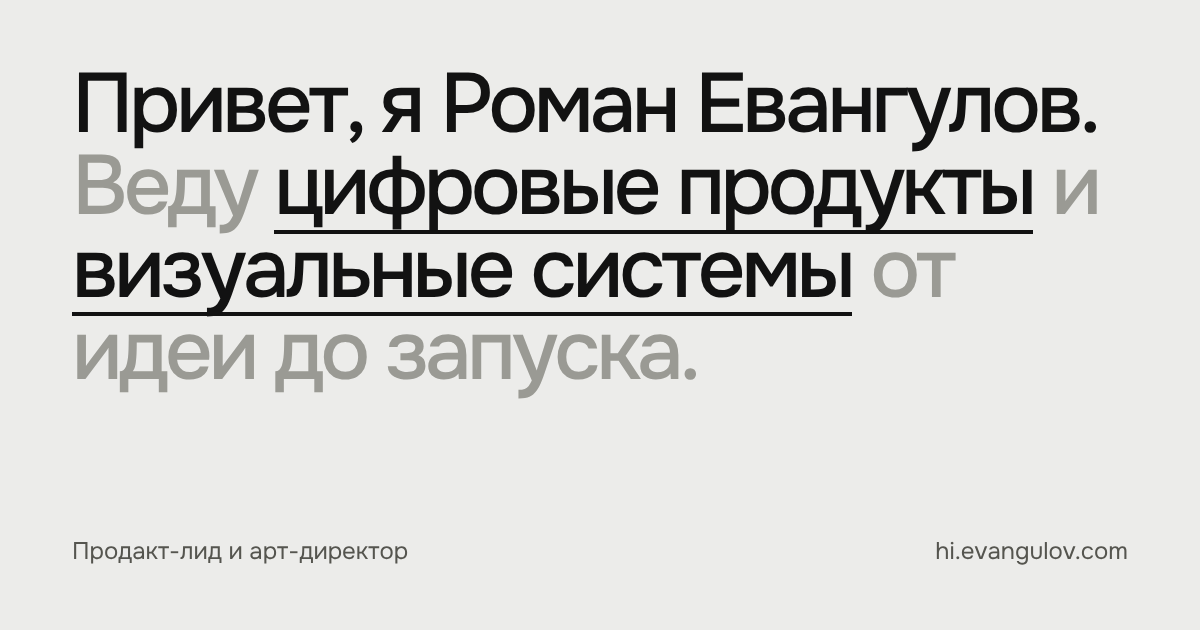
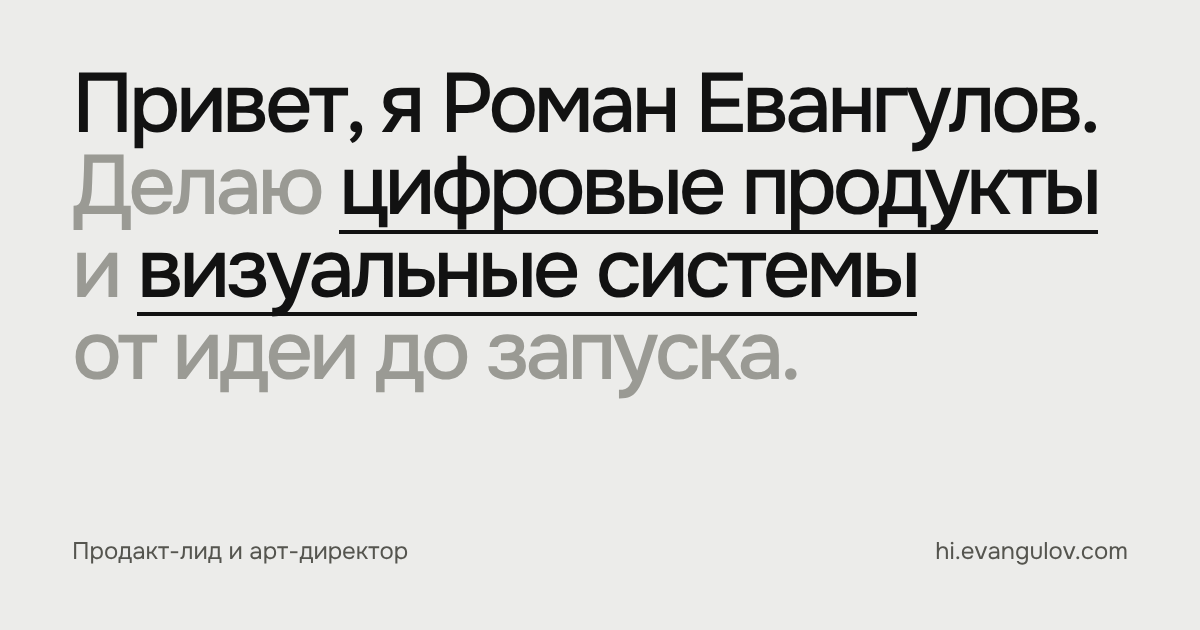
Главная: «Делаю» вместо «Веду»
Claude-Session: https://claude.ai/code/session_01MPVUZezH11G1zi8C6TZf3s

Changed region(s): [[0.0617, 0.2413, 0.925, 0.6333]]

diff --git a/index.html b/index.html
@@ -1,4 +1,4 @@
-<!doctype html><html lang="ru"><head><meta charset="utf-8"><meta name="viewport" content="width=device-width, initial-scale=1"><title>Роман Евангулов — продакт-лид и арт-директор</title><meta name="description" content="Веду цифровые продукты и визуальные системы от идеи до запуска. Кейсы: Settle, «Обещали.», Kairos Digital, Экоплант и другие."><link rel="canonical" href="https://hi.evangulov.com/"><meta property="og:type" content="website"><meta property="og:url" content="https://hi.evangulov.com/"><meta property="og:title" content="Роман Евангулов — продакт-лид и арт-директор"><meta property="og:description" content="Веду цифровые продукты и визуальные системы от идеи до запуска. Кейсы: Settle, «Обещали.», Kairos Digital, Экоплант и другие."><meta property="og:image" content="https://hi.evangulov.com/og.png"><meta name="twitter:card" content="summary_large_image"><meta name="robots" content="noindex, nofollow"><meta name="theme-color" content="#ECECEA"><link rel="icon" href="/favicon.svg" type="image/svg+xml"><link rel="preconnect" href="https://fonts.googleapis.com"><link rel="preconnect" href="https://fonts.gstatic.com" crossorigin><link rel="stylesheet" href="https://fonts.googleapis.com/css2?family=Onest:wght@300..700&amp;display=swap"><style>html,body{margin:0;background:#ECECEA}</style>
+<!doctype html><html lang="ru"><head><meta charset="utf-8"><meta name="viewport" content="width=device-width, initial-scale=1"><title>Роман Евангулов — продакт-лид и арт-директор</title><meta name="description" content="Делаю цифровые продукты и визуальные системы от идеи до запуска. Кейсы: Settle, «Обещали.», Экоплант и другие."><link rel="canonical" href="https://hi.evangulov.com/"><meta property="og:type" content="website"><meta property="og:url" content="https://hi.evangulov.com/"><meta property="og:title" content="Роман Евангулов — продакт-лид и арт-директор"><meta property="og:description" content="Делаю цифровые продукты и визуальные системы от идеи до запуска. Кейсы: Settle, «Обещали.», Экоплант и другие."><meta property="og:image" content="https://hi.evangulov.com/og.png"><meta name="twitter:card" content="summary_large_image"><meta name="robots" content="noindex, nofollow"><meta name="theme-color" content="#ECECEA"><link rel="icon" href="/favicon.svg" type="image/svg+xml"><link rel="preconnect" href="https://fonts.googleapis.com"><link rel="preconnect" href="https://fonts.gstatic.com" crossorigin><link rel="stylesheet" href="https://fonts.googleapis.com/css2?family=Onest:wght@300..700&amp;display=swap"><style>html,body{margin:0;background:#ECECEA}</style>
 
 
 
@@ -483,7 +483,7 @@ class Component extends DCLogic {
   }
   renderVals(){ return {}; }
 }
-; return Component })(),tpl:"\n\n<div class=\"s5\"><header class=\"hd5\"><div class=\"wrap\"><a class=\"nm\" href=\"#top\">Роман Евангулов</a><nav aria-label=\"Разделы\"><a class=\"ul x\" href=\"#work\">Работы</a><a class=\"ul\" href=\"/about/\">Обо мне</a><a class=\"ul\" href=\"#contact\">Связаться</a></nav></div></header><main><section id=\"top\" class=\"wrap hz\"><h1 aria-label=\"Привет, я Роман Евангулов. Веду цифровые продукты и визуальные системы от идеи до запуска.\"><span class=\"wd\"><span style=\"--i: 0\">Привет,</span></span> <span class=\"nw\"><span class=\"wd\"><span style=\"--i: 1\">я</span></span> <a href=\"/about/\" class=\"me\" aria-haspopup=\"dialog\" style=\"--d: 565ms\"><span class=\"wd\"><span style=\"--i: 2\">Роман</span></span></a></span> <span class=\"nw\"><a href=\"/about/\" class=\"me\" aria-haspopup=\"dialog\" style=\"--d: 565ms\"><span class=\"wd\"><span style=\"--i: 3\">Евангулов</span></span></a><span class=\"wd\"><span style=\"--i: 4\">.</span></span></span> <span class=\"wd g\"><span style=\"--i: 4\">Веду</span></span> <a href=\"#products\" style=\"--d: 785ms\"><span class=\"wd\"><span style=\"--i: 5\">цифровые</span></span> <span class=\"wd\"><span style=\"--i: 6\">продукты</span></span></a> <span class=\"nw\"><span class=\"wd g\"><span style=\"--i: 7\">и</span></span> <a href=\"#brands\" style=\"--d: 950ms\"><span class=\"wd\"><span style=\"--i: 8\">визуальные</span></span></a></span><a href=\"#brands\" class=\"l2b\" style=\"--d: 950ms\"> <span class=\"wd\"><span style=\"--i: 9\">системы</span></span></a> <span class=\"nw\"><span class=\"wd g\"><span style=\"--i: 10\">от</span></span> <span class=\"wd g\"><span style=\"--i: 11\">идеи</span></span></span> <span class=\"nw\"><span class=\"wd g\"><span style=\"--i: 12\">до</span></span> <span class=\"wd g\"><span style=\"--i: 13\">запуска.</span></span></span></h1></section><section id=\"work\" class=\"wrap\" style=\"display: flex; flex-direction: column; gap: 140px; padding-bottom: 140px\"><div id=\"products\" class=\"grp\"><div class=\"grp-h\"><h2>Продуктовые кейсы</h2><span></span></div><a class=\"card op\" href=\"/settle/\" aria-label=\"Settle: открыть кейс\"><div class=\"media\"><div class=\"kc w\" style=\"aspect-ratio: 16 / 9; --bg: #0A1028; --fg: #F2F5FF; --mut: rgba(242,245,255,.55); --g1: #2F55E4; --g2: #7C93FF; --g3: #22D4ED; --go: 0.5; --ln: rgba(242,245,255,.14)\"><div class=\"orb\"></div><div class=\"kl\">Собственный продукт · macOS · 2026</div><div class=\"bt\"><div class=\"nm\">Settle</div><div class=\"ds\">Хватит ли Wi‑Fi для работы — ответ одним словом</div></div></div></div><div class=\"cap\"><span class=\"go2\"><span class=\"t\">Открыть кейс</span><span class=\"a\">→</span></span><span class=\"res\">Приложение для Mac</span></div></a><a class=\"card op\" href=\"/obeschali/\" aria-label=\"Обещали.: открыть кейс\"><div class=\"media\"><div class=\"kc w\" style=\"aspect-ratio: 16 / 9; --bg: #121212; --fg: #F2EEE4; --mut: rgba(242,238,228,.5); --g1: #C9B98F; --g2: #8A7B5A; --g3: #E8DFC8; --go: 0.32; --ln: rgba(242,238,228,.14)\"><div class=\"orb\"></div><div class=\"kl\">Собственный продукт · 2026</div><div class=\"bt\"><div class=\"nm\">Обещали.</div><div class=\"ds\">Архив публичных обещаний и того, что произошло дальше</div></div></div></div><div class=\"cap\"><span class=\"go2\"><span class=\"t\">Открыть кейс</span><span class=\"a\">→</span></span><span class=\"res\">Сайт на русском и английском</span></div></a><div class=\"row2\"><a class=\"card cl\" href=\"/miklatnow/\" aria-label=\"MiklatNow: кейс скоро\"><div class=\"media\"><div class=\"kc\" style=\"aspect-ratio: 4 / 5; --bg: #E2E2DE; --fg: #1E1C18; --mut: rgba(30,28,24,.55); --g1: #F2B880; --g2: #8AA8FF; --g3: #F7D9A8; --go: 0.55; --ln: rgba(30,28,24,.16)\"><div class=\"orb\"></div><div class=\"kl\">Собственный продукт · 2026</div><div class=\"bt\"><div class=\"nm\">MiklatNow</div><div class=\"ds\">Ближайшее укрытие в одно нажатие</div></div></div></div><div class=\"cap\"><span class=\"go2\"><svg width=\"14\" height=\"14\" viewBox=\"0 0 24 24\" fill=\"none\" stroke=\"currentColor\" stroke-width=\"1.8\" aria-hidden=\"true\"><rect x=\"5\" y=\"11\" width=\"14\" height=\"9\"></rect><path d=\"M8 11V8a4 4 0 0 1 8 0v3\"></path></svg> Кейс скоро</span><span class=\"res\">Сервис работает: miklatnow.com</span></div></a><a class=\"card cl\" href=\"/ecoplant-shop/\" aria-label=\"Интернет-магазин Экоплант: кейс скоро\"><div class=\"media\"><div class=\"kc\" style=\"aspect-ratio: 4 / 5; --bg: #E3EADF; --fg: #132A17; --mut: rgba(19,42,23,.55); --g1: #9BD86A; --g2: #E2F7A8; --g3: #5DBB6B; --go: 0.6; --ln: rgba(19,42,23,.16); --fs: 10.6cqw\"><div class=\"orb\"></div><div class=\"kl\">Экоплант · 2025</div><div class=\"bt\"><div class=\"nm\">Интернет-магазин Экоплант</div><div class=\"ds\">Онлайн как отдельный канал продаж</div></div></div></div><div class=\"cap\"><span class=\"go2\"><svg width=\"14\" height=\"14\" viewBox=\"0 0 24 24\" fill=\"none\" stroke=\"currentColor\" stroke-width=\"1.8\" aria-hidden=\"true\"><rect x=\"5\" y=\"11\" width=\"14\" height=\"9\"></rect><path d=\"M8 11V8a4 4 0 0 1 8 0v3\"></path></svg> Кейс скоро</span><span class=\"res\">Интернет-магазин Экоплант</span></div></a></div></div><div id=\"brands\" class=\"grp\"><div class=\"grp-h\"><h2>Дизайн-кейсы</h2><span></span></div><a class=\"card op\" href=\"/ecoplant-social/\" aria-label=\"Соцсети Экоплант: открыть кейс\"><div class=\"media\"><div class=\"kc w\" style=\"aspect-ratio: 16 / 9; --bg: #DDF2B6; --fg: #0E3A1B; --mut: rgba(14,58,27,.6); --g1: #FFFFFF; --g2: #9BE35A; --g3: #4FB35E; --go: 0.6; --ln: rgba(14,58,27,.18); --fs: 10.6cqw\"><div class=\"orb\"></div><div class=\"kl\">Экоплант · 2025</div><div class=\"bt\"><div class=\"nm\">Соцсети Экоплант</div><div class=\"ds\">Визуальный язык, рубрики и шаблоны для ленты бренда</div></div></div></div><div class=\"cap\"><span class=\"go2\"><span class=\"t\">Открыть кейс</span><span class=\"a\">→</span></span><span class=\"res\">Рубрики, карусели и шаблоны для соцсетей</span></div></a><div class=\"row2\"><a class=\"card cl\" href=\"/kairos/\" aria-label=\"Kairos Digital: кейс скоро\"><div class=\"media\"><div class=\"kc\" style=\"aspect-ratio: 4 / 5; --bg: #060A1C; --fg: #FFFFFF; --mut: rgba(255,255,255,.55); --g1: #385CFF; --g2: #7D5CFF; --g3: #22D4ED; --go: 0.55; --ln: rgba(255,255,255,.14); --fs: 10.6cqw\"><div class=\"orb\"></div><div class=\"kl\">Kairos Digital · 2022–2024</div><div class=\"bt\"><div class=\"nm\">Kairos Digital</div><div class=\"ds\">Три продукта на одном сайте</div></div></div></div><div class=\"cap\"><span class=\"go2\"><svg width=\"14\" height=\"14\" viewBox=\"0 0 24 24\" fill=\"none\" stroke=\"currentColor\" stroke-width=\"1.8\" aria-hidden=\"true\"><rect x=\"5\" y=\"11\" width=\"14\" height=\"9\"></rect><path d=\"M8 11V8a4 4 0 0 1 8 0v3\"></path></svg> Кейс скоро</span><span class=\"res\">Сайт группы и лендинги продуктов</span></div></a><a class=\"card op\" href=\"/ecoplant-brand/\" aria-label=\"Бренд Экоплант: открыть кейс\"><div class=\"media\"><div class=\"kc\" style=\"aspect-ratio: 4 / 5; --bg: #0E3A1B; --fg: #EEF6E6; --mut: rgba(238,246,230,.55); --g1: #6FCF4B; --g2: #C8F06A; --g3: #2E8B57; --go: 0.5; --ln: rgba(238,246,230,.16); --fs: 10.6cqw\"><div class=\"orb\"></div><div class=\"kl\">Экоплант · 2024–2025</div><div class=\"bt\"><div class=\"nm\">Бренд Экоплант</div><div class=\"ds\">Один стиль для рекламы, магазинов и онлайна</div></div></div></div><div class=\"cap\"><span class=\"go2\"><span class=\"t\">Открыть кейс</span><span class=\"a\">→</span></span><span class=\"res\">Брендбук и наружная реклама</span></div></a></div><div class=\"row2\"><a class=\"card op\" href=\"/speedpipe/\" aria-label=\"SpeedPipe: открыть кейс\"><div class=\"media\"><div class=\"kc\" style=\"aspect-ratio: 4 / 5; --bg: #0F0F12; --fg: #F2F2F5; --mut: rgba(242,242,245,.5); --g1: #B9BDCF; --g2: #6C7186; --g3: #E9EAF2; --go: 0.32; --ln: rgba(242,242,245,.14)\"><div class=\"orb\"></div><div class=\"kl\">Kairos Digital · 2022–2024</div><div class=\"bt\"><div class=\"nm\">SpeedPipe</div><div class=\"ds\">Один мастер-бренд вместо разрозненных продуктов</div></div></div></div><div class=\"cap\"><span class=\"go2\"><span class=\"t\">Открыть кейс</span><span class=\"a\">→</span></span><span class=\"res\">Мастер-бренд и линейка продуктов</span></div></a><a class=\"card op\" href=\"/gsp-film/\" aria-label=\"Стройка изнутри: открыть кейс\"><div class=\"media\"><div class=\"kc\" style=\"aspect-ratio: 4 / 5; --bg: #1B120C; --fg: #FFF3E8; --mut: rgba(255,243,232,.55); --g1: #E0823A; --g2: #F4C46B; --g3: #B3502A; --go: 0.55; --ln: rgba(255,243,232,.14); --fs: 10.6cqw\"><div class=\"orb\"></div><div class=\"kl\">Газстройпром · 2016–2021</div><div class=\"bt\"><div class=\"nm\">Стройка изнутри</div><div class=\"ds\">Ночные смены, зимние трассы и ролик «Ухта — Торжок»</div></div></div></div><div class=\"cap\"><span class=\"go2\"><span class=\"t\">Открыть кейс</span><span class=\"a\">→</span></span><span class=\"res\">Снимал сам на камеру и коптер</span></div></a></div></div></section><section class=\"wrap ab5\"><a href=\"/about/\"><span>Обо мне</span><span class=\"a\">→</span></a></section></main><footer id=\"contact\" class=\"ft5\"><div class=\"wrap\"><div class=\"lb\">Контакты</div><a class=\"em\" href=\"mailto:evangulov@gmail.com\">evangulov@gmail.com</a><div class=\"ln\"><a href=\"https://t.me/evangulov\" target=\"_blank\" rel=\"noopener\">Telegram <svg width=\".7em\" height=\".7em\" viewBox=\"0 0 24 24\" fill=\"none\" stroke=\"currentColor\" stroke-width=\"1.6\" aria-hidden=\"true\"><path d=\"M7 17 17 7M8 7h9v9\"></path></svg></a><a href=\"https://linkedin.com/in/evangulov\" target=\"_blank\" rel=\"noopener\">LinkedIn <svg width=\".7em\" height=\".7em\" viewBox=\"0 0 24 24\" fill=\"none\" stroke=\"currentColor\" stroke-width=\"1.6\" aria-hidden=\"true\"><path d=\"M7 17 17 7M8 7h9v9\"></path></svg></a></div><div class=\"bt\"><span>© Роман Евангулов, 2026</span><span>Продакт-лид и арт-директор</span></div></div></footer><div class=\"mm\" id=\"me\" role=\"dialog\" aria-modal=\"true\" aria-labelledby=\"mmT\" aria-hidden=\"true\"><div class=\"mm-bg\" data-close=\"1\"></div><div class=\"mm-card\"><button type=\"button\" class=\"mm-x\" data-close=\"1\" aria-label=\"Закрыть\"><svg viewBox=\"0 0 16 16\" width=\"16\" height=\"16\" fill=\"none\" stroke=\"currentColor\" stroke-width=\"1.6\"><path d=\"M3 3l10 10M13 3L3 13\"/></svg></button><div class=\"mm-i mm-k\">Продакт-лид и арт-директор</div><h2 class=\"mm-i\" id=\"mmT\">Роман Евангулов</h2><p class=\"mm-i mm-p\">Больше десяти лет работаю в крупных компаниях и IT‑стартапах. Собираю команды под задачу и вместе с дизайнерами и разработчиками довожу продукты и визуальные системы до запуска.</p><div class=\"mm-i mm-ln\"><a class=\"mm-go\" href=\"/about/\"><span>Подробнее обо мне</span><span class=\"a\">→</span></a><div class=\"mm-ct\"><a href=\"mailto:evangulov@gmail.com\">evangulov@gmail.com</a><a href=\"https://t.me/evangulov\" target=\"_blank\" rel=\"noopener\">Telegram ↗</a><a href=\"https://linkedin.com/in/evangulov\" target=\"_blank\" rel=\"noopener\">LinkedIn ↗</a></div></div></div></div></div>\n",props:{}};
+; return Component })(),tpl:"\n\n<div class=\"s5\"><header class=\"hd5\"><div class=\"wrap\"><a class=\"nm\" href=\"#top\">Роман Евангулов</a><nav aria-label=\"Разделы\"><a class=\"ul x\" href=\"#work\">Работы</a><a class=\"ul\" href=\"/about/\">Обо мне</a><a class=\"ul\" href=\"#contact\">Связаться</a></nav></div></header><main><section id=\"top\" class=\"wrap hz\"><h1 aria-label=\"Привет, я Роман Евангулов. Делаю цифровые продукты и визуальные системы от идеи до запуска.\"><span class=\"wd\"><span style=\"--i: 0\">Привет,</span></span> <span class=\"nw\"><span class=\"wd\"><span style=\"--i: 1\">я</span></span> <a href=\"/about/\" class=\"me\" aria-haspopup=\"dialog\" style=\"--d: 565ms\"><span class=\"wd\"><span style=\"--i: 2\">Роман</span></span></a></span> <span class=\"nw\"><a href=\"/about/\" class=\"me\" aria-haspopup=\"dialog\" style=\"--d: 565ms\"><span class=\"wd\"><span style=\"--i: 3\">Евангулов</span></span></a><span class=\"wd\"><span style=\"--i: 4\">.</span></span></span> <span class=\"wd g\"><span style=\"--i: 4\">Делаю</span></span> <a href=\"#products\" style=\"--d: 785ms\"><span class=\"wd\"><span style=\"--i: 5\">цифровые</span></span> <span class=\"wd\"><span style=\"--i: 6\">продукты</span></span></a> <span class=\"nw\"><span class=\"wd g\"><span style=\"--i: 7\">и</span></span> <a href=\"#brands\" style=\"--d: 950ms\"><span class=\"wd\"><span style=\"--i: 8\">визуальные</span></span></a></span><a href=\"#brands\" class=\"l2b\" style=\"--d: 950ms\"> <span class=\"wd\"><span style=\"--i: 9\">системы</span></span></a> <span class=\"nw\"><span class=\"wd g\"><span style=\"--i: 10\">от</span></span> <span class=\"wd g\"><span style=\"--i: 11\">идеи</span></span></span> <span class=\"nw\"><span class=\"wd g\"><span style=\"--i: 12\">до</span></span> <span class=\"wd g\"><span style=\"--i: 13\">запуска.</span></span></span></h1></section><section id=\"work\" class=\"wrap\" style=\"display: flex; flex-direction: column; gap: 140px; padding-bottom: 140px\"><div id=\"products\" class=\"grp\"><div class=\"grp-h\"><h2>Продуктовые кейсы</h2><span></span></div><a class=\"card op\" href=\"/settle/\" aria-label=\"Settle: открыть кейс\"><div class=\"media\"><div class=\"kc w\" style=\"aspect-ratio: 16 / 9; --bg: #0A1028; --fg: #F2F5FF; --mut: rgba(242,245,255,.55); --g1: #2F55E4; --g2: #7C93FF; --g3: #22D4ED; --go: 0.5; --ln: rgba(242,245,255,.14)\"><div class=\"orb\"></div><div class=\"kl\">Собственный продукт · macOS · 2026</div><div class=\"bt\"><div class=\"nm\">Settle</div><div class=\"ds\">Хватит ли Wi‑Fi для работы — ответ одним словом</div></div></div></div><div class=\"cap\"><span class=\"go2\"><span class=\"t\">Открыть кейс</span><span class=\"a\">→</span></span><span class=\"res\">Приложение для Mac</span></div></a><a class=\"card op\" href=\"/obeschali/\" aria-label=\"Обещали.: открыть кейс\"><div class=\"media\"><div class=\"kc w\" style=\"aspect-ratio: 16 / 9; --bg: #121212; --fg: #F2EEE4; --mut: rgba(242,238,228,.5); --g1: #C9B98F; --g2: #8A7B5A; --g3: #E8DFC8; --go: 0.32; --ln: rgba(242,238,228,.14)\"><div class=\"orb\"></div><div class=\"kl\">Собственный продукт · 2026</div><div class=\"bt\"><div class=\"nm\">Обещали.</div><div class=\"ds\">Архив публичных обещаний и того, что произошло дальше</div></div></div></div><div class=\"cap\"><span class=\"go2\"><span class=\"t\">Открыть кейс</span><span class=\"a\">→</span></span><span class=\"res\">Сайт на русском и английском</span></div></a><div class=\"row2\"><a class=\"card cl\" href=\"/miklatnow/\" aria-label=\"MiklatNow: кейс скоро\"><div class=\"media\"><div class=\"kc\" style=\"aspect-ratio: 4 / 5; --bg: #E2E2DE; --fg: #1E1C18; --mut: rgba(30,28,24,.55); --g1: #F2B880; --g2: #8AA8FF; --g3: #F7D9A8; --go: 0.55; --ln: rgba(30,28,24,.16)\"><div class=\"orb\"></div><div class=\"kl\">Собственный продукт · 2026</div><div class=\"bt\"><div class=\"nm\">MiklatNow</div><div class=\"ds\">Ближайшее укрытие в одно нажатие</div></div></div></div><div class=\"cap\"><span class=\"go2\"><svg width=\"14\" height=\"14\" viewBox=\"0 0 24 24\" fill=\"none\" stroke=\"currentColor\" stroke-width=\"1.8\" aria-hidden=\"true\"><rect x=\"5\" y=\"11\" width=\"14\" height=\"9\"></rect><path d=\"M8 11V8a4 4 0 0 1 8 0v3\"></path></svg> Кейс скоро</span><span class=\"res\">Сервис работает: miklatnow.com</span></div></a><a class=\"card cl\" href=\"/ecoplant-shop/\" aria-label=\"Интернет-магазин Экоплант: кейс скоро\"><div class=\"media\"><div class=\"kc\" style=\"aspect-ratio: 4 / 5; --bg: #E3EADF; --fg: #132A17; --mut: rgba(19,42,23,.55); --g1: #9BD86A; --g2: #E2F7A8; --g3: #5DBB6B; --go: 0.6; --ln: rgba(19,42,23,.16); --fs: 10.6cqw\"><div class=\"orb\"></div><div class=\"kl\">Экоплант · 2025</div><div class=\"bt\"><div class=\"nm\">Интернет-магазин Экоплант</div><div class=\"ds\">Онлайн как отдельный канал продаж</div></div></div></div><div class=\"cap\"><span class=\"go2\"><svg width=\"14\" height=\"14\" viewBox=\"0 0 24 24\" fill=\"none\" stroke=\"currentColor\" stroke-width=\"1.8\" aria-hidden=\"true\"><rect x=\"5\" y=\"11\" width=\"14\" height=\"9\"></rect><path d=\"M8 11V8a4 4 0 0 1 8 0v3\"></path></svg> Кейс скоро</span><span class=\"res\">Интернет-магазин Экоплант</span></div></a></div></div><div id=\"brands\" class=\"grp\"><div class=\"grp-h\"><h2>Дизайн-кейсы</h2><span></span></div><a class=\"card op\" href=\"/ecoplant-social/\" aria-label=\"Соцсети Экоплант: открыть кейс\"><div class=\"media\"><div class=\"kc w\" style=\"aspect-ratio: 16 / 9; --bg: #DDF2B6; --fg: #0E3A1B; --mut: rgba(14,58,27,.6); --g1: #FFFFFF; --g2: #9BE35A; --g3: #4FB35E; --go: 0.6; --ln: rgba(14,58,27,.18); --fs: 10.6cqw\"><div class=\"orb\"></div><div class=\"kl\">Экоплант · 2025</div><div class=\"bt\"><div class=\"nm\">Соцсети Экоплант</div><div class=\"ds\">Визуальный язык, рубрики и шаблоны для ленты бренда</div></div></div></div><div class=\"cap\"><span class=\"go2\"><span class=\"t\">Открыть кейс</span><span class=\"a\">→</span></span><span class=\"res\">Рубрики, карусели и шаблоны для соцсетей</span></div></a><div class=\"row2\"><a class=\"card cl\" href=\"/kairos/\" aria-label=\"Kairos Digital: кейс скоро\"><div class=\"media\"><div class=\"kc\" style=\"aspect-ratio: 4 / 5; --bg: #060A1C; --fg: #FFFFFF; --mut: rgba(255,255,255,.55); --g1: #385CFF; --g2: #7D5CFF; --g3: #22D4ED; --go: 0.55; --ln: rgba(255,255,255,.14); --fs: 10.6cqw\"><div class=\"orb\"></div><div class=\"kl\">Kairos Digital · 2022–2024</div><div class=\"bt\"><div class=\"nm\">Kairos Digital</div><div class=\"ds\">Три продукта на одном сайте</div></div></div></div><div class=\"cap\"><span class=\"go2\"><svg width=\"14\" height=\"14\" viewBox=\"0 0 24 24\" fill=\"none\" stroke=\"currentColor\" stroke-width=\"1.8\" aria-hidden=\"true\"><rect x=\"5\" y=\"11\" width=\"14\" height=\"9\"></rect><path d=\"M8 11V8a4 4 0 0 1 8 0v3\"></path></svg> Кейс скоро</span><span class=\"res\">Сайт группы и лендинги продуктов</span></div></a><a class=\"card op\" href=\"/ecoplant-brand/\" aria-label=\"Бренд Экоплант: открыть кейс\"><div class=\"media\"><div class=\"kc\" style=\"aspect-ratio: 4 / 5; --bg: #0E3A1B; --fg: #EEF6E6; --mut: rgba(238,246,230,.55); --g1: #6FCF4B; --g2: #C8F06A; --g3: #2E8B57; --go: 0.5; --ln: rgba(238,246,230,.16); --fs: 10.6cqw\"><div class=\"orb\"></div><div class=\"kl\">Экоплант · 2024–2025</div><div class=\"bt\"><div class=\"nm\">Бренд Экоплант</div><div class=\"ds\">Один стиль для рекламы, магазинов и онлайна</div></div></div></div><div class=\"cap\"><span class=\"go2\"><span class=\"t\">Открыть кейс</span><span class=\"a\">→</span></span><span class=\"res\">Брендбук и наружная реклама</span></div></a></div><div class=\"row2\"><a class=\"card op\" href=\"/speedpipe/\" aria-label=\"SpeedPipe: открыть кейс\"><div class=\"media\"><div class=\"kc\" style=\"aspect-ratio: 4 / 5; --bg: #0F0F12; --fg: #F2F2F5; --mut: rgba(242,242,245,.5); --g1: #B9BDCF; --g2: #6C7186; --g3: #E9EAF2; --go: 0.32; --ln: rgba(242,242,245,.14)\"><div class=\"orb\"></div><div class=\"kl\">Kairos Digital · 2022–2024</div><div class=\"bt\"><div class=\"nm\">SpeedPipe</div><div class=\"ds\">Один мастер-бренд вместо разрозненных продуктов</div></div></div></div><div class=\"cap\"><span class=\"go2\"><span class=\"t\">Открыть кейс</span><span class=\"a\">→</span></span><span class=\"res\">Мастер-бренд и линейка продуктов</span></div></a><a class=\"card op\" href=\"/gsp-film/\" aria-label=\"Стройка изнутри: открыть кейс\"><div class=\"media\"><div class=\"kc\" style=\"aspect-ratio: 4 / 5; --bg: #1B120C; --fg: #FFF3E8; --mut: rgba(255,243,232,.55); --g1: #E0823A; --g2: #F4C46B; --g3: #B3502A; --go: 0.55; --ln: rgba(255,243,232,.14); --fs: 10.6cqw\"><div class=\"orb\"></div><div class=\"kl\">Газстройпром · 2016–2021</div><div class=\"bt\"><div class=\"nm\">Стройка изнутри</div><div class=\"ds\">Ночные смены, зимние трассы и ролик «Ухта — Торжок»</div></div></div></div><div class=\"cap\"><span class=\"go2\"><span class=\"t\">Открыть кейс</span><span class=\"a\">→</span></span><span class=\"res\">Снимал сам на камеру и коптер</span></div></a></div></div></section><section class=\"wrap ab5\"><a href=\"/about/\"><span>Обо мне</span><span class=\"a\">→</span></a></section></main><footer id=\"contact\" class=\"ft5\"><div class=\"wrap\"><div class=\"lb\">Контакты</div><a class=\"em\" href=\"mailto:evangulov@gmail.com\">evangulov@gmail.com</a><div class=\"ln\"><a href=\"https://t.me/evangulov\" target=\"_blank\" rel=\"noopener\">Telegram <svg width=\".7em\" height=\".7em\" viewBox=\"0 0 24 24\" fill=\"none\" stroke=\"currentColor\" stroke-width=\"1.6\" aria-hidden=\"true\"><path d=\"M7 17 17 7M8 7h9v9\"></path></svg></a><a href=\"https://linkedin.com/in/evangulov\" target=\"_blank\" rel=\"noopener\">LinkedIn <svg width=\".7em\" height=\".7em\" viewBox=\"0 0 24 24\" fill=\"none\" stroke=\"currentColor\" stroke-width=\"1.6\" aria-hidden=\"true\"><path d=\"M7 17 17 7M8 7h9v9\"></path></svg></a></div><div class=\"bt\"><span>© Роман Евангулов, 2026</span><span>Продакт-лид и арт-директор</span></div></div></footer><div class=\"mm\" id=\"me\" role=\"dialog\" aria-modal=\"true\" aria-labelledby=\"mmT\" aria-hidden=\"true\"><div class=\"mm-bg\" data-close=\"1\"></div><div class=\"mm-card\"><button type=\"button\" class=\"mm-x\" data-close=\"1\" aria-label=\"Закрыть\"><svg viewBox=\"0 0 16 16\" width=\"16\" height=\"16\" fill=\"none\" stroke=\"currentColor\" stroke-width=\"1.6\"><path d=\"M3 3l10 10M13 3L3 13\"/></svg></button><div class=\"mm-i mm-k\">Продакт-лид и арт-директор</div><h2 class=\"mm-i\" id=\"mmT\">Роман Евангулов</h2><p class=\"mm-i mm-p\">Больше десяти лет работаю в крупных компаниях и IT‑стартапах. Собираю команды под задачу и вместе с дизайнерами и разработчиками довожу продукты и визуальные системы до запуска.</p><div class=\"mm-i mm-ln\"><a class=\"mm-go\" href=\"/about/\"><span>Подробнее обо мне</span><span class=\"a\">→</span></a><div class=\"mm-ct\"><a href=\"mailto:evangulov@gmail.com\">evangulov@gmail.com</a><a href=\"https://t.me/evangulov\" target=\"_blank\" rel=\"noopener\">Telegram ↗</a><a href=\"https://linkedin.com/in/evangulov\" target=\"_blank\" rel=\"noopener\">LinkedIn ↗</a></div></div></div></div></div>\n",props:{}};
 function get(o,p){if(/^\d+$/.test(p))return +p;if(p==='true')return true;if(p==='false')return false;return p.split('.').reduce((a,k)=>a==null?a:a[k],o)}
 function fill(tpl,v,H){
  tpl=tpl.replace(/<sc-for list="\{\{\s*([\w.$]+)\s*\}\}" as="(\w+)"[^>]*>([\s\S]*?)<\/sc-for>/g,(m,l,as,inner)=>{const arr=get(v,l)||[];return arr.map((it,i)=>fill(inner,Object.assign({},v,{[as]:it,$index:i}),H)).join('')});
